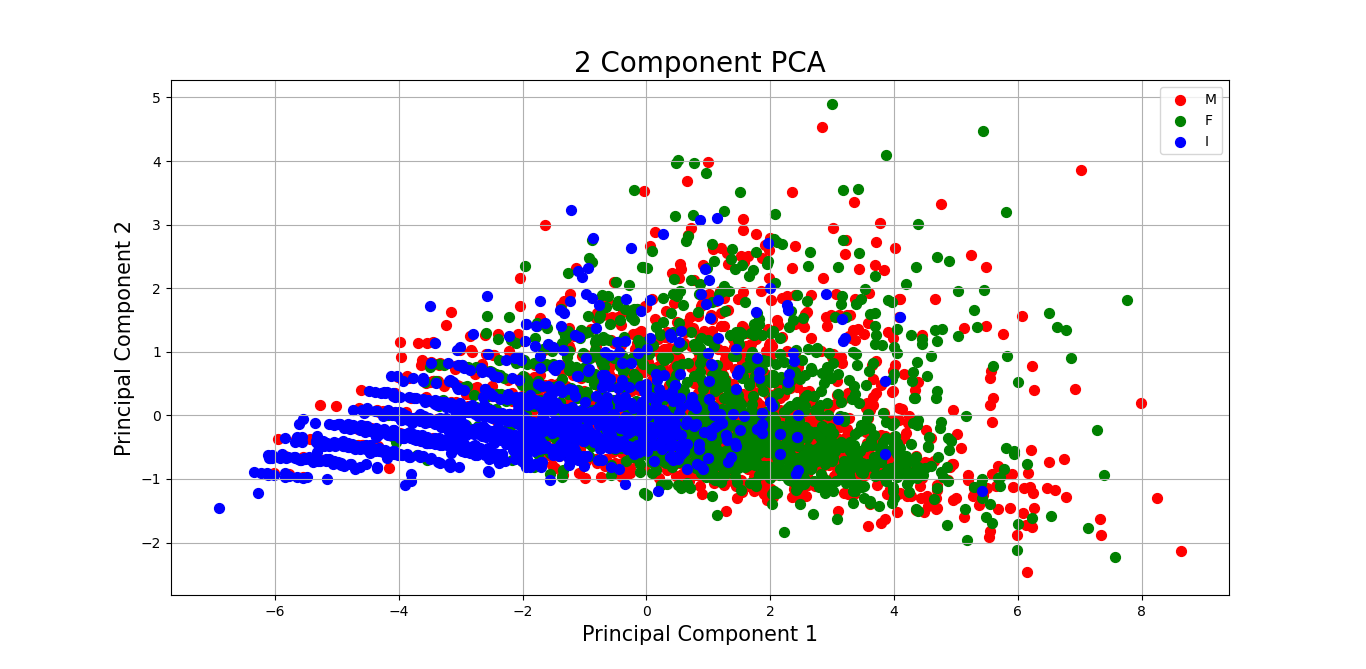
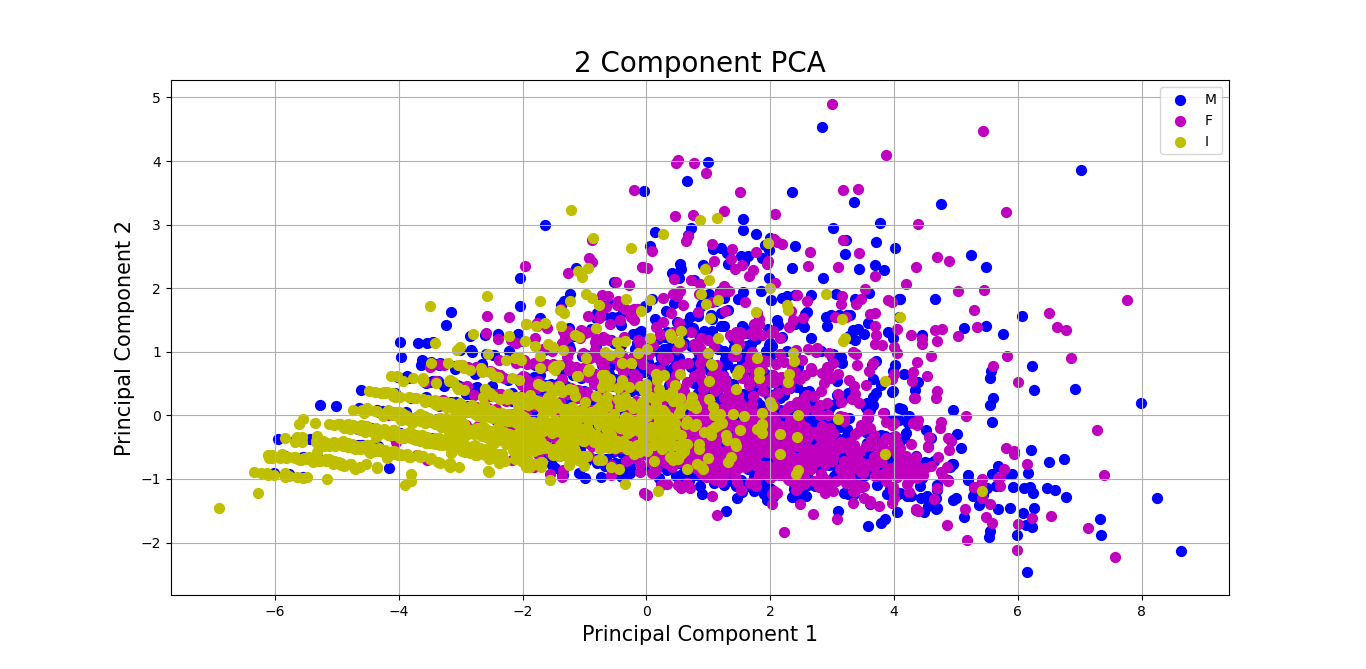
Alterado cor do multi variate

diff --git a/Homework 1/unconditional_multi_variate_plotting.py b/Homework 1/unconditional_multi_variate_plotting.py
@@ -22,9 +22,9 @@ principalComponents = pca.fit_transform(x)
 principalDf = pd.DataFrame(data = principalComponents
              , columns = ['principal component 1', 'principal component 2'])
 #display(principalDf.head(5))
-#display(df[['target']].head())
+#display(df[['Sex']].head())
 finalDf = pd.concat([principalDf, df[['Sex']]], axis = 1)
-#display(finalDf.head(5))
+display(finalDf.head(5))
 
 fig = plt.figure(figsize = (8,8))
 ax = fig.add_subplot(1,1,1) 
@@ -34,7 +34,7 @@ ax.set_title('2 Component PCA', fontsize = 20)
 
 
 targets = ['M', 'F', 'I']
-colors = ['r', 'g', 'b']
+colors = ['b', 'm', 'y']
 for target, color in zip(targets,colors):
     indicesToKeep = finalDf['Sex'] == target
     ax.scatter(finalDf.loc[indicesToKeep, 'principal component 1']
